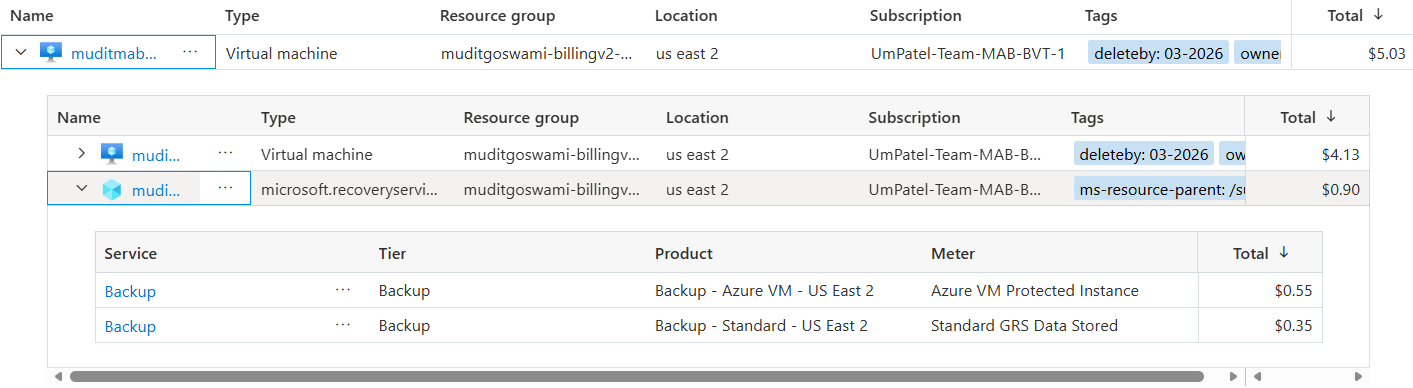
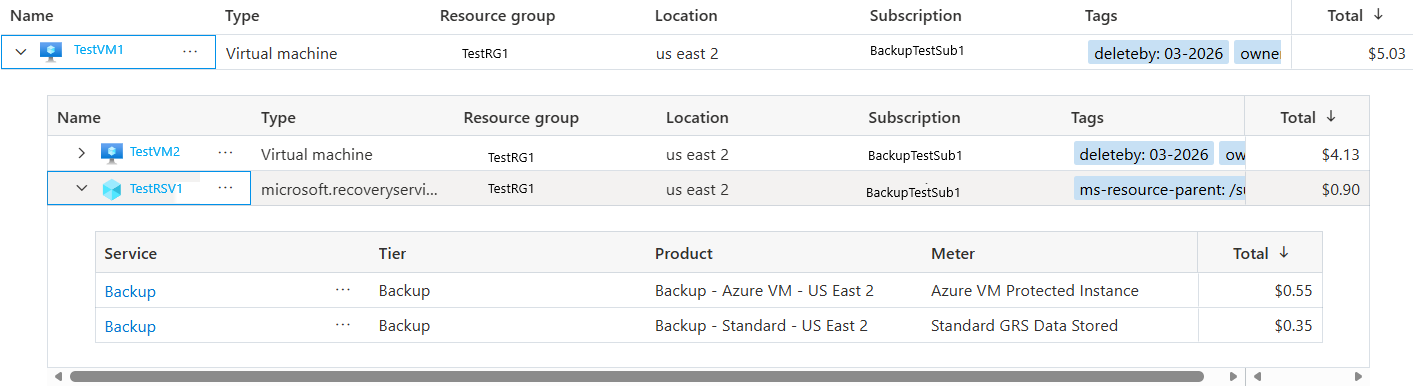
addressed PR review inputs

diff --git a/articles/backup/backup-azure-granular-billing.md b/articles/backup/backup-azure-granular-billing.md
@@ -42,7 +42,7 @@ To set up granular billing in the Recovery Services vault, follow these steps:
 
 1. In the [Azure portal](https://portal.azure.com/), go to the **Recovery Services vault and** select **Settings** > **Properties**.
 
-   :::image type="content" source="./media/backup-azure-granular-billing/granular-billing-property.png" alt-text="Screenshot that shows how to configure granular billing properties in the Recovery Services vault" lightbox="./media/backup-azure-granular-billing/granular-billing-property.png":::
+   :::image type="content" source="./media/backup-azure-granular-billing/granular-billing-property.png" alt-text="Screenshot that shows how to configure granular billing properties in the Recovery Services vault." lightbox="./media/backup-azure-granular-billing/granular-billing-property.png":::
 
 1. On the **Properties** pane, for **Cost Management Granularity**, select **Update** .
 
@@ -67,7 +67,9 @@ To validate backup charges in Cost Analysis, follow these steps:
 
 1. On the **Cost analysis** pane, set the **View** as **Resources** and verify if the new backup charges appear in the selected granularity format.
 
-   :::image type="content" source="./media/backup-azure-granular-billing/resource-billing.png" alt-text="Screenshot that shows backup charges in the selected granularity format in Cost Analysis" lightbox="./media/backup-azure-granular-billing/resource-billing.png":::
+   ***The prices shown in the following screenshot are for example purposes only.***
+
+   :::image type="content" source="./media/backup-azure-granular-billing/resource-billing.png" alt-text="Screenshot that shows backup charges in the selected granularity format in Cost Analysis." lightbox="./media/backup-azure-granular-billing/resource-billing.png":::
 
 ## Troubleshoot granular billing issues
 
